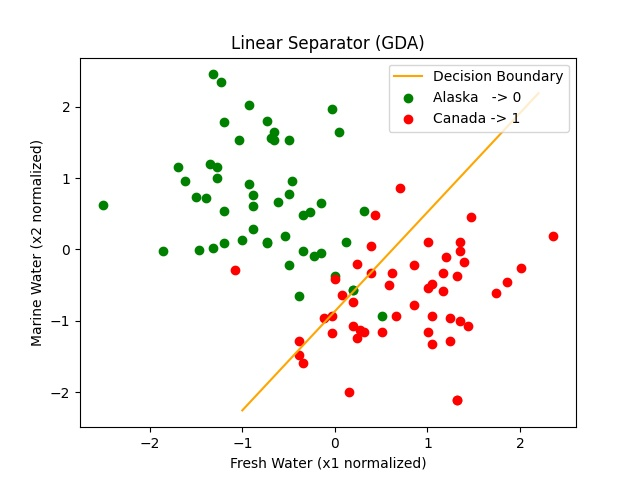
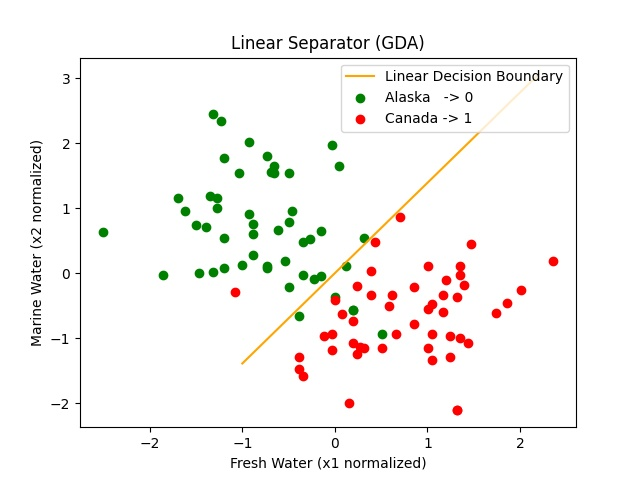
quadratic separator (GDA)

diff --git a/Assignment-1/Q4/main.py b/Assignment-1/Q4/main.py
@@ -52,11 +52,11 @@ def graph_training(X,Y,title,filename):
     
     plt.show()
 
-def y_val(x,A,B):
+def y_val_linear(x,A,B):
     # x1*A[0][0] + x2*A[0][1] = B (x1 is taken to be x)
     return (B - x*A[0][0])/A[0][1]
 
-def graph_gda(X,Y,A,B,title,filename):
+def graph_gda_linear(X,Y,A,B,title,filename):
     x1_neg, x2_y_neg = [], []
     x1_pos, x2_y_pos = [], []
     for i in range(Y.shape[0]):
@@ -73,10 +73,10 @@ def graph_gda(X,Y,A,B,title,filename):
     max_x =  2.2
     
     # x1*A[0][0] + x2*A[0][1] = B
-    point1 = (min_x, y_val(min_x, A, B))
-    point2 = (max_x, y_val(max_x, A, B))
+    point1 = (min_x, y_val_linear(min_x, A, B))
+    point2 = (max_x, y_val_linear(max_x, A, B))
     
-    plt.plot([point1[0], point2[0]], [point1[1], point2[1]], label="Decision Boundary", color='orange')    
+    plt.plot([point1[0], point2[0]], [point1[1], point2[1]], label="Linear Decision Boundary", color='orange')    
     plt.xlabel('Fresh Water (x1 normalized)')
     plt.ylabel('Marine Water (x2 normalized)')
     plt.title(title)
@@ -87,24 +87,91 @@ def graph_gda(X,Y,A,B,title,filename):
     
     plt.show()
 
-def part5(X,Y,mu0,mu1,phi,sigma,sigma0,sigma1):
-    pass
+def y_val_quad(x, A, B, C):
+    # x.T * A * x + B*x = C
+    # A = [a0 a1]
+    #     [a2 a3]
+    # B = [b0 b1]
+    
+    a0,a1,a2,a3 = A[0][0],A[0][1],A[1][0],A[1][1]
+    b0,b1       = B[0][0],B[0][1]
+    c           = C
+    # a0*(x**2) + xy(a1+a2) + a3*(y**2) + b0*x + b1*y = c
+    coefficients = [a3, b1 + x*(a1+a2), a0*x*x + b0*x - c]
+    roots = np.roots(coefficients)
+    return roots[1]
 
-def part4(X,Y,mu0,mu1,phi,sigma,sigma0,sigma1):
+def graph_gda_quad(X,Y,A,B,C,A_lin,B_lin,title,filename):
+    x1_neg, x2_y_neg = [], []
+    x1_pos, x2_y_pos = [], []
+    for i in range(Y.shape[0]):
+        if(Y[i] == 0):
+            x1_neg.append(X[i][0]) # 1st value in the list is taken to be the first feature i.e. Fresh water
+            x2_y_neg.append(X[i][1]) # 2nd value in the list is taken to be the second feature i.e. Marine water
+        else:
+            x1_pos.append(X[i][0])
+            x2_y_pos.append(X[i][1])
+    plt.scatter(x1_neg, x2_y_neg, c='green', label='Alaska   -> 0')
+    plt.scatter(x1_pos, x2_y_pos, c='red', label='Canada -> 1')
+    
+    # Quadratic Plot
+    min_x = -2
+    max_x =  2
+    x = np.linspace(min_x,max_x,300)
+    y = np.asarray(list(map(lambda x:y_val_quad(x,A,B,C), x)))
+    plt.plot(x,y,label='Quadratic Decision Boundary',color='blue')
+    
+    #Linear Plot
+    # x1*A_lin[0][0] + x2*A_lin[0][1] = B_lin
+        
+    min_x_lin = -1
+    max_x_lin =  2.2
+    point1 = (min_x, y_val_linear(min_x, A_lin, B_lin))
+    point2 = (max_x, y_val_linear(max_x, A_lin, B_lin))
+
+    plt.plot([point1[0], point2[0]], [point1[1], point2[1]], label="Linear Decision Boundary", color='orange')
+    plt.xlabel('Fresh Water (x1 normalized)')
+    plt.ylabel('Marine Water (x2 normalized)')
+    plt.title(title)
+    plt.legend(loc="upper right")
+    
+    os.system('mkdir -p assets/')
+    plt.savefig(os.path.join(BASE_DIR, 'Q4', 'assets', filename))
+    
+    plt.show()
+
+def part5(X,Y,mu0,mu1,phi,sigma,sigma0,sigma1,A_lin,B_lin):
+    sigma_ratio = np.sqrt(np.linalg.det(sigma1)/np.linalg.det(sigma0))
+    
+    # x.T * term1 * x + term2*x + term3 = -2*C
+    # x = [x1 
+    #      x2] (2*1)
+    
+    C     = np.log((1-phi)*sigma_ratio/phi)
+    term3 = np.dot( (np.dot(mu1.T, np.linalg.inv(sigma))), mu1) - np.dot( (np.dot(mu0.T, np.linalg.inv(sigma))), mu0)
+    term3 = term3[0][0]
+    term2 = -2*(np.dot(mu1.T, np.linalg.inv(sigma1)) - np.dot(mu0.T, np.linalg.inv(sigma0)))
+    term1 = np.linalg.inv(sigma1) - np.linalg.inv(sigma0)
+    
+    title = "Quadratic Separator"
+    filename = "Quadratic_Separator.jpg"
+    graph_gda_quad(X,Y,term1,term2,-2*C - term3,A_lin,B_lin,title,filename)
+    
+def part4(X,Y,mu0,mu1,phi,sigma,sigma0,sigma1,A_lin,B_lin):
     print("mu0 = {}".format(mu0))
     print("mu1 = {}\n".format(mu1))
     print("Sigma0  = {}\n".format(sigma0))
     print("Sigma1  = {}\n".format(sigma1))
     
-    # input("\nPress Enter to move to Part E")
-    part5(X,Y,mu0,mu1,phi,sigma,sigma0,sigma1)
+    input("\nPress Enter to move to Part E")
+    part5(X,Y,mu0,mu1,phi,sigma,sigma0,sigma1,A_lin,B_lin)
 
 def part3(X,Y,mu0,mu1,phi,sigma,sigma0,sigma1):
     mu0 = mu0.reshape(mu0.shape[0],1)
     mu1 = mu1.reshape(mu1.shape[0],1)
     
     C     = np.log((1-phi)/phi)
-    term2 = np.dot( (np.dot(mu1.T, np.linalg.inv(sigma))), mu1) + np.dot( (np.dot(mu0.T, np.linalg.inv(sigma))), mu0)
+    term2 = np.dot( (np.dot(mu1.T, np.linalg.inv(sigma))), mu1) - np.dot( (np.dot(mu0.T, np.linalg.inv(sigma))), mu0)
     term2 = term2[0][0]
     term1 = np.dot((mu1 - mu0).T, np.linalg.inv(sigma))
     
@@ -114,11 +181,11 @@ def part3(X,Y,mu0,mu1,phi,sigma,sigma0,sigma1):
     A = term1
     B = (term2/2) + C
     title = "Linear Separator (GDA)"
-    filename = "Linear_Separator_GDA.jpg"    
-    graph_gda(X,Y,A,B,title,filename)
-    
-    # input("\nPress Enter to move to Part D")
-    part4(X,Y,mu0,mu1,phi,sigma,sigma0,sigma1)
+    filename = "Linear_Separator_GDA.jpg"   
+     
+    graph_gda_linear(X,Y,A,B,title,filename)    
+    input("\nPress Enter to move to Part D")
+    part4(X,Y,mu0,mu1,phi,sigma,sigma0,sigma1,A,B)
                 
 def part2(X,Y,mu0,mu1,phi,sigma,sigma0,sigma1):
         
@@ -126,7 +193,7 @@ def part2(X,Y,mu0,mu1,phi,sigma,sigma0,sigma1):
     filename = "Distribution_of_Training_Data.jpg"
     graph_training(X,Y,title,filename)
     
-    # input("\nPress Enter to move to Part C")
+    input("\nPress Enter to move to Part C")
     part3(X,Y,mu0,mu1,phi,sigma,sigma0,sigma1)
     
 def part1(X,Y):
@@ -165,7 +232,7 @@ def part1(X,Y):
     print("mu1 = {}\n".format(mu1))
     print("Sigma  = {}\n".format(sigma))
     
-    # input("\nPress Enter to move to Part B")
+    input("\nPress Enter to move to Part B")
     part2(X,Y,mu0,mu1,phi,sigma,sigma0,sigma1)
         
 def main():
